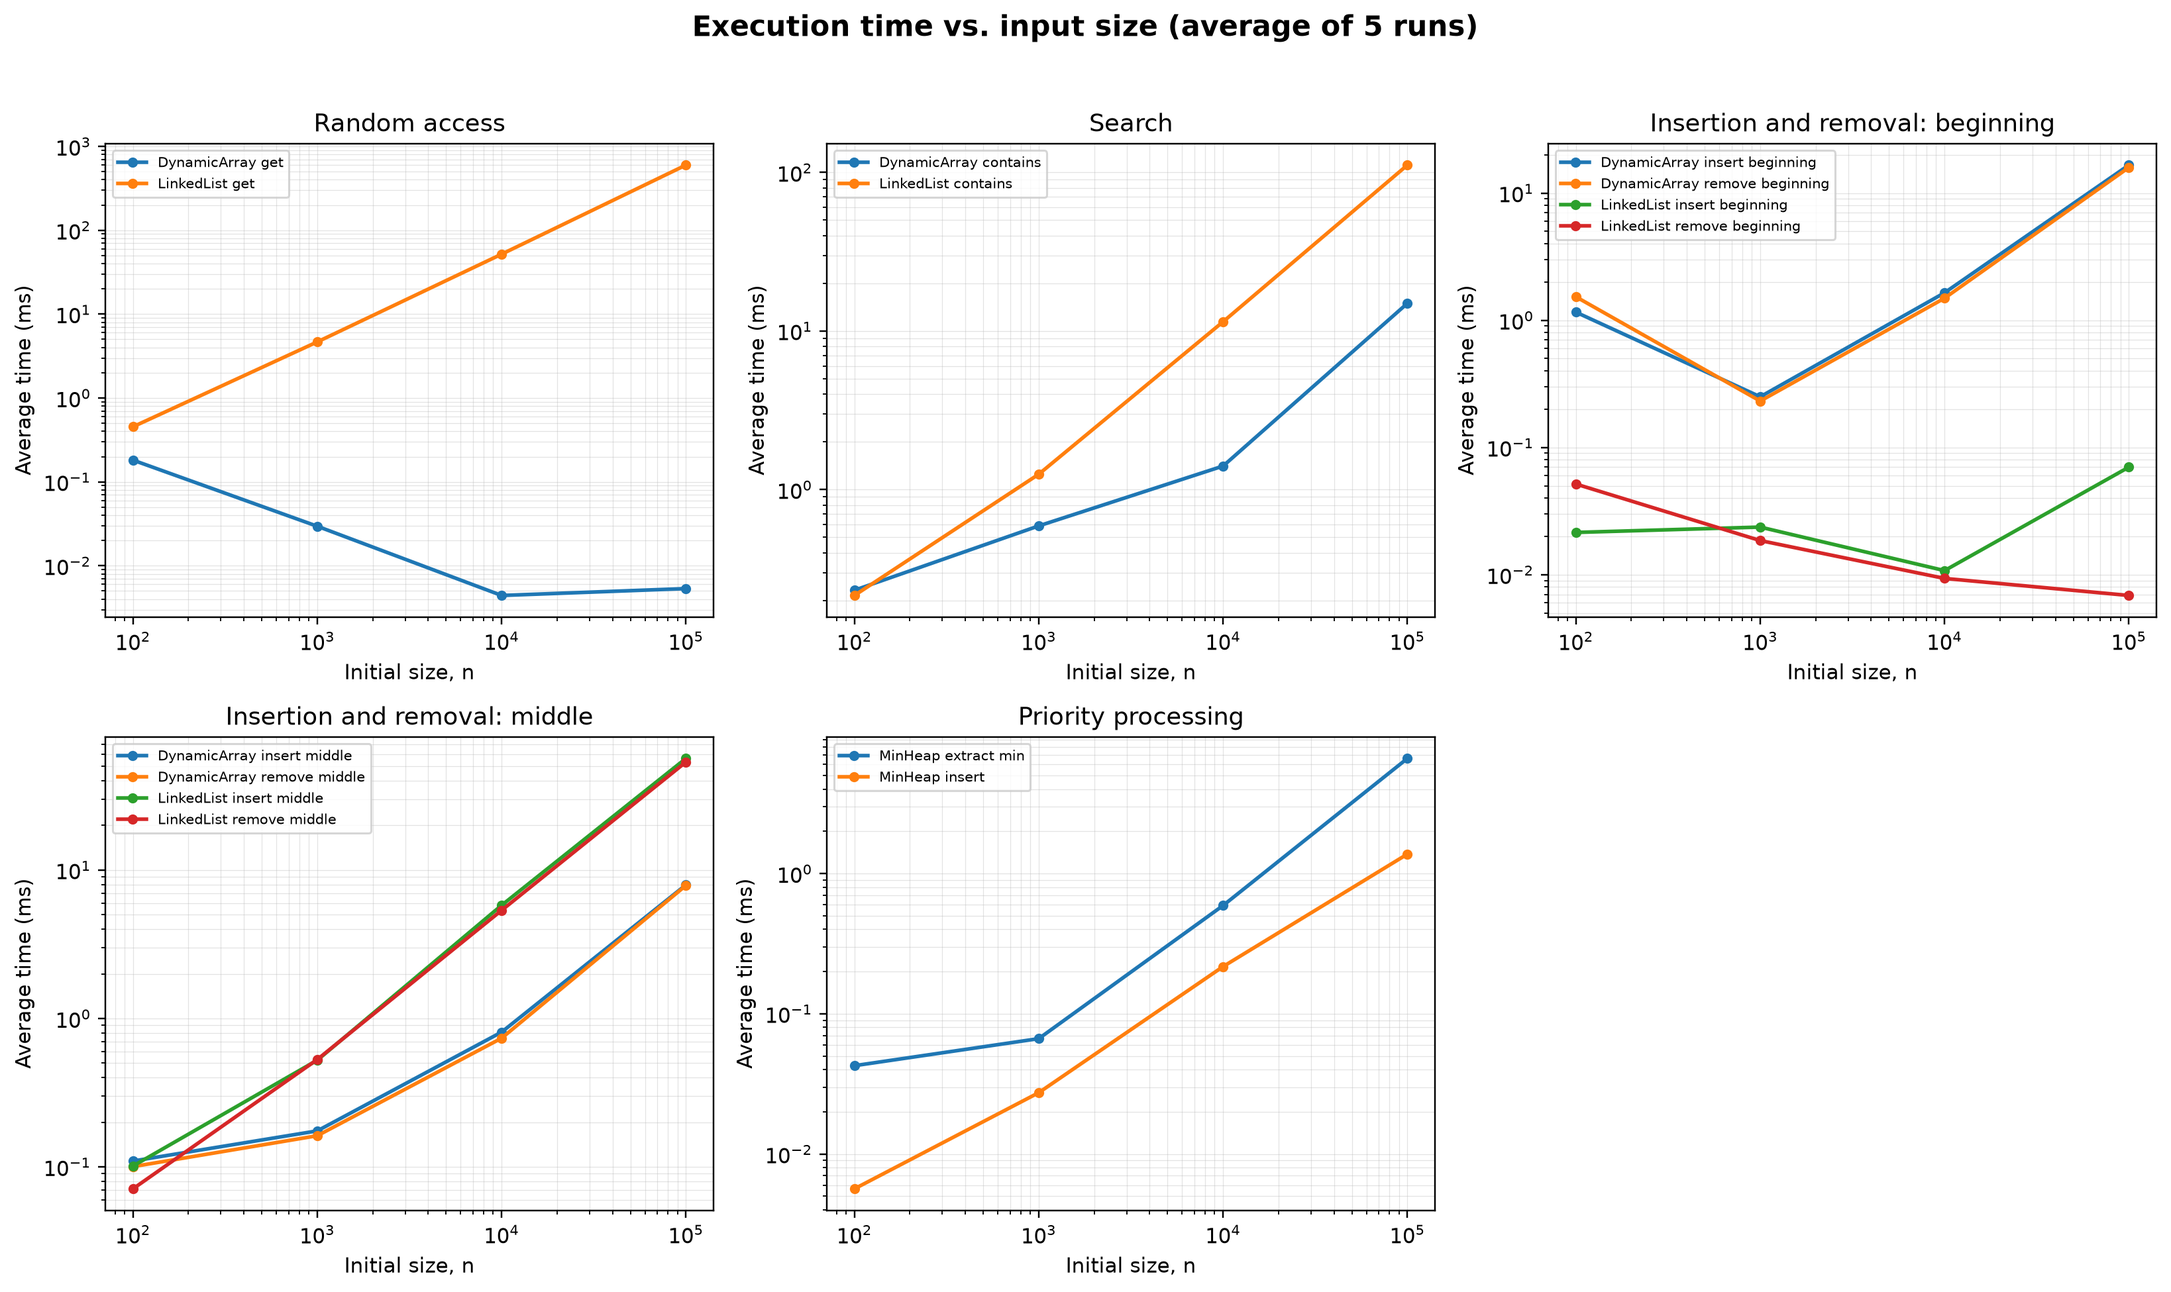
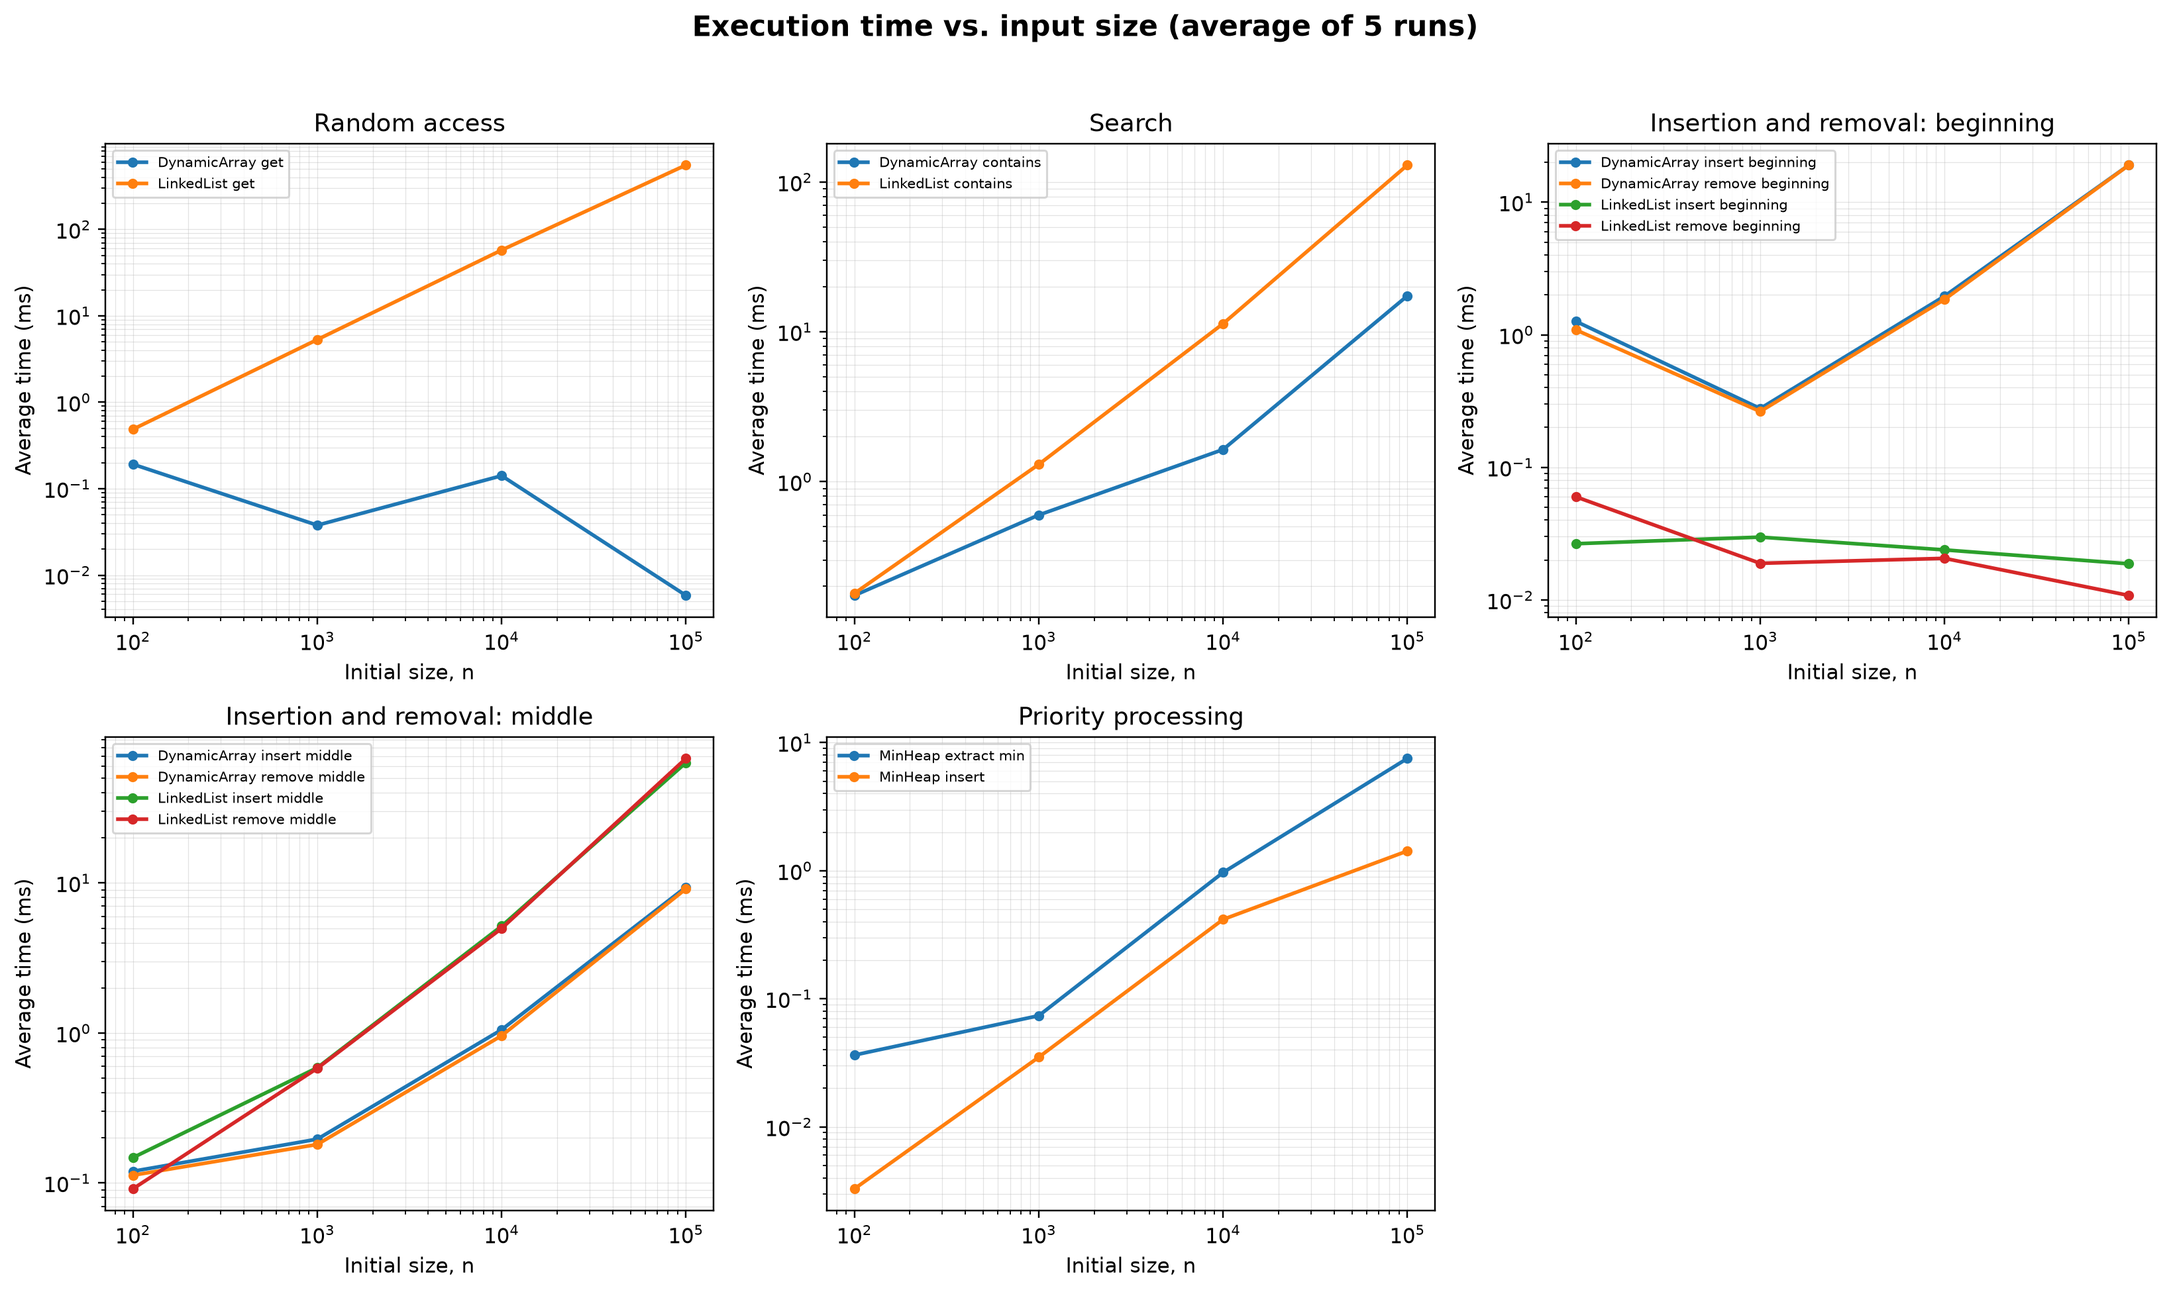
fix: align benchmark with requirements

diff --git a/src/Benchmark.java b/src/Benchmark.java
@@ -4,8 +4,6 @@ import java.nio.charset.StandardCharsets;
 import java.nio.file.Files;
 import java.nio.file.Path;
 import java.nio.file.Paths;
-import java.util.ArrayList;
-import java.util.List;
 import java.util.Locale;
 import java.util.Random;
 
@@ -15,6 +13,7 @@ public final class Benchmark {
     private static final int ACCESS_OPERATIONS = 10_000;
     private static final int SEARCH_OPERATIONS = 1_000;
     private static final int CHANGE_OPERATIONS = 1_000;
+    private static final int RESULT_ROW_COUNT = 56;
     private static volatile long sink;
 
     private Benchmark() {
@@ -23,19 +22,22 @@ public final class Benchmark {
     public static void main(String[] args) throws IOException {
         String outputFile = args.length == 0
                 ? "results/tables/results.csv" : args[0];
-        List<ResultRow> rows = new ArrayList<ResultRow>();
+        ResultRow[] rows = new ResultRow[RESULT_ROW_COUNT];
 
         warmUp();
-        runRandomAccess(rows);
-        runSearch(rows);
-        runInsertionAndRemoval(rows);
-        runPriorityProcessing(rows);
+        int next = runRandomAccess(rows, 0);
+        next = runSearch(rows, next);
+        next = runInsertionAndRemoval(rows, next);
+        next = runPriorityProcessing(rows, next);
+        if (next != rows.length) {
+            throw new IllegalStateException("unexpected result row count: " + next);
+        }
         writeCsv(rows, Paths.get(outputFile));
 
         System.out.println("Assignment 2: Data Structure Analysis");
         System.out.println("All four workloads completed successfully.");
         System.out.println("Repetitions per experiment: " + REPETITIONS);
-        System.out.println("Result rows written: " + rows.size());
+        System.out.println("Result rows written: " + rows.length);
         System.out.println("CSV file: " + outputFile);
         System.out.println("Correctness checks passed.");
     }
@@ -62,7 +64,7 @@ public final class Benchmark {
         sink ^= checksum;
     }
 
-    private static void runRandomAccess(List<ResultRow> rows) {
+    private static int runRandomAccess(ResultRow[] rows, int next) {
         for (int n : SIZES) {
             int[] values = randomValues(n, 42L);
             int[] indices = randomIndices(ACCESS_OPERATIONS, n, 42L);
@@ -80,8 +82,8 @@ public final class Benchmark {
                 metric += array.getAccesses();
                 sink ^= checksum;
             }
-            rows.add(row("random_access", "DynamicArray", "get", n,
-                    ACCESS_OPERATIONS, time, "element_accesses", metric, "Theta(1)"));
+            rows[next++] = row("random_access", "DynamicArray", "get", n,
+                    ACCESS_OPERATIONS, time, "element_accesses", metric, "Theta(1)");
 
             time = 0;
             metric = 0;
@@ -97,12 +99,13 @@ public final class Benchmark {
                 metric += list.getAccesses();
                 sink ^= checksum;
             }
-            rows.add(row("random_access", "LinkedList", "get", n,
-                    ACCESS_OPERATIONS, time, "node_accesses", metric, "Theta(n) average"));
+            rows[next++] = row("random_access", "LinkedList", "get", n,
+                    ACCESS_OPERATIONS, time, "node_accesses", metric, "Theta(n) average");
         }
+        return next;
     }
 
-    private static void runSearch(List<ResultRow> rows) {
+    private static int runSearch(ResultRow[] rows, int next) {
         for (int n : SIZES) {
             int[] values = randomValues(n, 42L);
             int[] queries = searchValues(values, SEARCH_OPERATIONS, 42L);
@@ -122,8 +125,8 @@ public final class Benchmark {
                 metric += array.getComparisons();
                 sink ^= found;
             }
-            rows.add(row("search", "DynamicArray", "contains", n,
-                    SEARCH_OPERATIONS, time, "comparisons", metric, "Theta(n) average"));
+            rows[next++] = row("search", "DynamicArray", "contains", n,
+                    SEARCH_OPERATIONS, time, "comparisons", metric, "Theta(n) average");
 
             time = 0;
             metric = 0;
@@ -141,25 +144,36 @@ public final class Benchmark {
                 metric += list.getComparisons();
                 sink ^= found;
             }
-            rows.add(row("search", "LinkedList", "contains", n,
-                    SEARCH_OPERATIONS, time, "comparisons", metric, "Theta(n) average"));
+            rows[next++] = row("search", "LinkedList", "contains", n,
+                    SEARCH_OPERATIONS, time, "comparisons", metric, "Theta(n) average");
         }
+        return next;
     }
 
-    private static void runInsertionAndRemoval(List<ResultRow> rows) {
+    private static int runInsertionAndRemoval(ResultRow[] rows, int next) {
+        int[] insertedValues = new int[CHANGE_OPERATIONS];
+        for (int operation = 0; operation < CHANGE_OPERATIONS; operation++) {
+            insertedValues[operation] = -operation - 1;
+        }
         for (int n : SIZES) {
             int[] values = randomValues(n, 42L);
-            runDynamicChanges(rows, values, n, 0, "beginning", "Theta(n)");
-            runLinkedChanges(rows, values, n, 0, "beginning", "Theta(1)");
+            next = runDynamicChanges(rows, next, values, insertedValues,
+                    n, 0, "beginning", "Theta(n)");
+            next = runLinkedChanges(rows, next, values, insertedValues,
+                    n, 0, "beginning", "Theta(1)");
             int middle = n / 2;
-            runDynamicChanges(rows, values, n, middle, "middle", "Theta(n)");
-            runLinkedChanges(rows, values, n, middle, "middle", "Theta(n)");
+            next = runDynamicChanges(rows, next, values, insertedValues,
+                    n, middle, "middle", "Theta(n)");
+            next = runLinkedChanges(rows, next, values, insertedValues,
+                    n, middle, "middle", "Theta(n)");
         }
+        return next;
     }
 
-    private static void runDynamicChanges(List<ResultRow> rows, int[] values,
-                                          int n, int index, String position,
-                                          String complexity) {
+    private static int runDynamicChanges(ResultRow[] rows, int next,
+                                         int[] values, int[] insertedValues,
+                                         int n, int index, String position,
+                                         String complexity) {
         long insertTime = 0;
         long insertMetric = 0;
         long removeTime = 0;
@@ -169,7 +183,7 @@ public final class Benchmark {
             array.resetMetrics();
             long start = System.nanoTime();
             for (int operation = 0; operation < CHANGE_OPERATIONS; operation++) {
-                array.add(index, -operation - 1);
+                array.add(index, insertedValues[operation]);
             }
             insertTime += System.nanoTime() - start;
             insertMetric += array.getMovements();
@@ -183,15 +197,17 @@ public final class Benchmark {
             removeMetric += array.getMovements();
             verifyRestored(array, values);
         }
-        rows.add(row("insertion_removal", "DynamicArray", "insert_" + position, n,
-                CHANGE_OPERATIONS, insertTime, "element_movements", insertMetric, complexity));
-        rows.add(row("insertion_removal", "DynamicArray", "remove_" + position, n,
-                CHANGE_OPERATIONS, removeTime, "element_movements", removeMetric, complexity));
+        rows[next++] = row("insertion_removal", "DynamicArray", "insert_" + position, n,
+                CHANGE_OPERATIONS, insertTime, "element_movements", insertMetric, complexity);
+        rows[next++] = row("insertion_removal", "DynamicArray", "remove_" + position, n,
+                CHANGE_OPERATIONS, removeTime, "element_movements", removeMetric, complexity);
+        return next;
     }
 
-    private static void runLinkedChanges(List<ResultRow> rows, int[] values,
-                                         int n, int index, String position,
-                                         String complexity) {
+    private static int runLinkedChanges(ResultRow[] rows, int next,
+                                        int[] values, int[] insertedValues,
+                                        int n, int index, String position,
+                                        String complexity) {
         long insertTime = 0;
         long insertMetric = 0;
         long removeTime = 0;
@@ -201,7 +217,7 @@ public final class Benchmark {
             list.resetMetrics();
             long start = System.nanoTime();
             for (int operation = 0; operation < CHANGE_OPERATIONS; operation++) {
-                list.add(index, -operation - 1);
+                list.add(index, insertedValues[operation]);
             }
             insertTime += System.nanoTime() - start;
             insertMetric += list.getAccesses();
@@ -215,13 +231,14 @@ public final class Benchmark {
             removeMetric += list.getAccesses();
             verifyRestored(list, values);
         }
-        rows.add(row("insertion_removal", "LinkedList", "insert_" + position, n,
-                CHANGE_OPERATIONS, insertTime, "node_accesses", insertMetric, complexity));
-        rows.add(row("insertion_removal", "LinkedList", "remove_" + position, n,
-                CHANGE_OPERATIONS, removeTime, "node_accesses", removeMetric, complexity));
+        rows[next++] = row("insertion_removal", "LinkedList", "insert_" + position, n,
+                CHANGE_OPERATIONS, insertTime, "node_accesses", insertMetric, complexity);
+        rows[next++] = row("insertion_removal", "LinkedList", "remove_" + position, n,
+                CHANGE_OPERATIONS, removeTime, "node_accesses", removeMetric, complexity);
+        return next;
     }
 
-    private static void runPriorityProcessing(List<ResultRow> rows) {
+    private static int runPriorityProcessing(ResultRow[] rows, int next) {
         for (int n : SIZES) {
             int[] values = randomValues(n, 42L);
             long insertTime = 0;
@@ -252,11 +269,12 @@ public final class Benchmark {
                 verifyNonDecreasing(extracted);
                 sink ^= extracted[n - 1];
             }
-            rows.add(row("priority_processing", "MinHeap", "insert", n, n,
-                    insertTime, "comparisons", insertComparisons, "O(log n) each"));
-            rows.add(row("priority_processing", "MinHeap", "extract_min", n, n,
-                    extractTime, "comparisons", extractComparisons, "Theta(log n) each"));
+            rows[next++] = row("priority_processing", "MinHeap", "insert", n, n,
+                    insertTime, "comparisons", insertComparisons, "O(log n) each");
+            rows[next++] = row("priority_processing", "MinHeap", "extract_min", n, n,
+                    extractTime, "comparisons", extractComparisons, "Theta(log n) each");
         }
+        return next;
     }
 
     private static ResultRow row(String workload, String structure, String operation,
@@ -341,7 +359,7 @@ public final class Benchmark {
         }
     }
 
-    private static void writeCsv(List<ResultRow> rows, Path output) throws IOException {
+    private static void writeCsv(ResultRow[] rows, Path output) throws IOException {
         Path parent = output.getParent();
         if (parent != null) {
             Files.createDirectories(parent);

diff --git a/tests/DataStructuresTest.java b/tests/DataStructuresTest.java
@@ -24,6 +24,8 @@ class DataStructuresTest {
     void dynamicArraySupportsAllRequiredOperations() {
         DynamicArray array = new DynamicArray();
         array.add(10);
+        assertEquals(1, array.size());
+        assertEquals(10, array.get(0));
         array.add(20);
         array.add(1, 15);
         array.add(15);
@@ -95,6 +97,8 @@ class DataStructuresTest {
     void linkedListSupportsAllRequiredOperations() {
         LinkedList list = new LinkedList();
         list.add(10);
+        assertEquals(1, list.size());
+        assertEquals(10, list.get(0));
         list.add(20);
         list.add(1, 15);
         list.add(15);
@@ -224,4 +228,3 @@ class DataStructuresTest {
         assertEquals(20, list.remove(list.size() - 1));
     }
 }
-

diff --git a/README.md b/README.md
@@ -10,7 +10,7 @@ This project implements three integer data structures without using Java collect
 
 `Benchmark` runs the four required workloads and writes the measurements to `results/tables/results.csv`. Java collections are used only in tests as reference implementations.
 
-Run all tests with `mvn test`. Run the benchmark with `mvn compile exec:java`, then create the plots with `python plot_results.py`.
+Requirements: JDK 17+, Maven 3.9+, and Python 3 with Matplotlib. Run all tests with `mvn test`. Run the benchmark with `mvn compile exec:java`, then create the plots with `python plot_results.py`.
 
 ## 2. Complexity Analysis
 
@@ -93,10 +93,10 @@ Metrics are direct array accesses, linked-node accesses, element movements, or h
 
 | n | Dynamic Array time (ms) | Accesses | Linked List time (ms) | Node accesses |
 |---:|---:|---:|---:|---:|
-| 100 | 0.182 | 10,000 | 0.454 | 511,508 |
-| 1,000 | 0.030 | 10,000 | 4.663 | 5,015,208 |
-| 10,000 | 0.004 | 10,000 | 51.878 | 50,139,208 |
-| 100,000 | 0.005 | 10,000 | 599.176 | 502,499,208 |
+| 100 | 0.192 | 10,000 | 0.487 | 511,508 |
+| 1,000 | 0.038 | 10,000 | 5.307 | 5,015,208 |
+| 10,000 | 0.141 | 10,000 | 57.583 | 50,139,208 |
+| 100,000 | 0.006 | 10,000 | 554.861 | 502,499,208 |
 
 Dynamic Array performs exactly one access per request, independent of `n`. Linked List traversal grows linearly with `n`. The very small Dynamic Array times are affected by JVM and timer noise, but its operation count stays constant.
 
@@ -104,10 +104,10 @@ Dynamic Array performs exactly one access per request, independent of `n`. Linke
 
 | n | Dynamic Array time (ms) | Comparisons | Linked List time (ms) | Comparisons |
 |---:|---:|---:|---:|---:|
-| 100 | 0.232 | 75,572 | 0.215 | 75,572 |
-| 1,000 | 0.591 | 752,172 | 1.250 | 752,172 |
-| 10,000 | 1.408 | 7,406,172 | 11.444 | 7,406,172 |
-| 100,000 | 14.956 | 74,446,172 | 111.315 | 74,446,172 |
+| 100 | 0.174 | 75,572 | 0.180 | 75,572 |
+| 1,000 | 0.599 | 752,172 | 1.305 | 752,172 |
+| 10,000 | 1.639 | 7,406,172 | 11.337 | 7,406,172 |
+| 100,000 | 17.400 | 74,446,172 | 129.787 | 74,446,172 |
 
 Both searches make the same number of comparisons and show Θ(n) growth. Dynamic Array is faster at large sizes because contiguous array traversal has better cache locality.
 
@@ -117,10 +117,10 @@ Each cell shows average time in milliseconds followed by movements or node acces
 
 | n | Array insert, Θ(n) | Array remove, Θ(n) | List insert, Θ(1) | List remove, Θ(1) |
 |---:|---:|---:|---:|---:|
-| 100 | 1.159 / 601,620 | 1.531 / 599,500 | 0.021 / 0 | 0.052 / 1,000 |
-| 1,000 | 0.250 / 1,501,780 | 0.232 / 1,499,500 | 0.024 / 0 | 0.019 / 1,000 |
-| 10,000 | 1.646 / 10,510,740 | 1.492 / 10,499,500 | 0.011 / 0 | 0.009 / 1,000 |
-| 100,000 | 16.625 / 100,500,500 | 15.922 / 100,499,500 | 0.070 / 0 | 0.007 / 1,000 |
+| 100 | 1.263 / 601,620 | 1.089 / 599,500 | 0.027 / 0 | 0.060 / 1,000 |
+| 1,000 | 0.278 / 1,501,780 | 0.264 / 1,499,500 | 0.030 / 0 | 0.019 / 1,000 |
+| 10,000 | 1.957 / 10,510,740 | 1.849 / 10,499,500 | 0.024 / 0 | 0.021 / 1,000 |
+| 100,000 | 19.074 / 100,500,500 | 19.063 / 100,499,500 | 0.019 / 0 | 0.011 / 1,000 |
 
 Linked List changes only the head references. Dynamic Array must shift the stored elements.
 
@@ -128,10 +128,10 @@ Linked List changes only the head references. Dynamic Array must shift the store
 
 | n | Array insert, Θ(n) | Array remove, Θ(n) | List insert, Θ(n) | List remove, Θ(n) |
 |---:|---:|---:|---:|---:|
-| 100 | 0.110 / 551,620 | 0.100 / 549,500 | 0.101 / 50,000 | 0.071 / 51,000 |
-| 1,000 | 0.175 / 1,001,780 | 0.162 / 999,500 | 0.524 / 500,000 | 0.529 / 501,000 |
-| 10,000 | 0.810 / 5,510,740 | 0.737 / 5,499,500 | 5.795 / 5,000,000 | 5.358 / 5,001,000 |
-| 100,000 | 7.954 / 50,500,500 | 7.884 / 50,499,500 | 56.556 / 50,000,000 | 53.501 / 50,001,000 |
+| 100 | 0.120 / 551,620 | 0.113 / 549,500 | 0.148 / 50,000 | 0.091 / 51,000 |
+| 1,000 | 0.196 / 1,001,780 | 0.181 / 999,500 | 0.587 / 500,000 | 0.582 / 501,000 |
+| 10,000 | 1.052 / 5,510,740 | 0.960 / 5,499,500 | 5.162 / 5,000,000 | 4.982 / 5,001,000 |
+| 100,000 | 9.396 / 50,500,500 | 9.148 / 50,499,500 | 63.468 / 50,000,000 | 67.723 / 50,001,000 |
 
 Both structures have linear middle operations. The array is faster for large `n` because shifting contiguous integers is cheaper than following many node references.
 
@@ -139,10 +139,10 @@ Both structures have linear middle operations. The array is faster for large `n`
 
 | n | Insert time (ms) | Insert comparisons, O(n log n) total | Extract time (ms) | Extract comparisons, Θ(n log n) total |
 |---:|---:|---:|---:|---:|
-| 100 | 0.006 | 207 | 0.043 | 845 |
-| 1,000 | 0.027 | 2,207 | 0.066 | 14,988 |
-| 10,000 | 0.217 | 22,785 | 0.592 | 216,538 |
-| 100,000 | 1.377 | 228,896 | 6.629 | 2,831,900 |
+| 100 | 0.003 | 207 | 0.036 | 845 |
+| 1,000 | 0.035 | 2,207 | 0.074 | 14,988 |
+| 10,000 | 0.416 | 22,785 | 0.968 | 216,538 |
+| 100,000 | 1.426 | 228,896 | 7.532 | 2,831,900 |
 
 All extracted sequences were verified to be non-decreasing. Extraction comparisons grow near `n log n`. Random insertion used about 2.3 comparisons per item, which is below its `O(log n)` worst-case bound.
 
